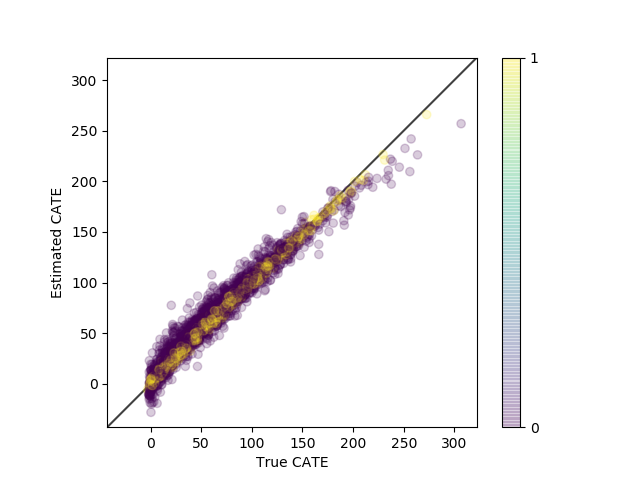
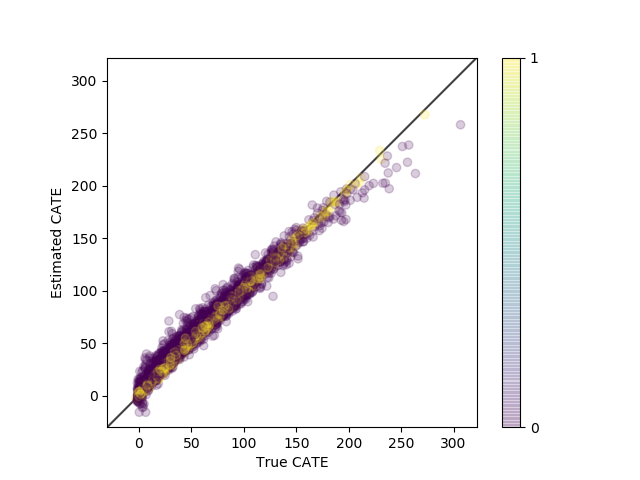
updated using cv

diff --git a/Experminents/pymalts.py b/Experminents/pymalts.py
@@ -14,33 +14,30 @@ import sklearn.ensemble as ensemble
 import seaborn as sns
 import matplotlib.pyplot as plt
 import matplotlib.patches as patches
+from sklearn.model_selection import StratifiedKFold
 
 class malts:
-    def __init__(self,outcome,treatment,data,discrete=[],C=1,gamma=1,epsilon=600,k=10):
+    def __init__(self,outcome,treatment,data,discrete=[],C=1,k=10):
         np.random.seed(0)
         self.C = C #coefficient to regularozation term
-        self.gamma = gamma
         self.k = k
-        self.epsilon = epsilon #lambda x: (1 + np.exp( - self.epsilon) )/(1+np.exp( self.gamma * (x - self.epsilon) ) )
         self.n, self.p = data.shape
-        self.p = self.p - 2#shape of the data
+        self.p = self.p - 2 #shape of the data
         self.outcome = outcome
         self.treatment = treatment
         self.discrete = discrete
         self.continuous = list(set(data.columns).difference(set([outcome]+[treatment]+discrete)))
-#        Mc = np.ones((len(self.continuous),)) #initializing the stretch vector 
-#        Md = np.ones((len(self.discrete),)) #initializing the stretch vector 
         #splitting the data into control and treated units
         self.df_T = data.loc[data[treatment]==1]
         self.df_C = data.loc[data[treatment]==0]
         #extracting relevant covariates (discrete,continuous) 
         #and outcome. Converting to numpy array.
-        self.Xc_T = self.df_T[self.continuous].to_numpy(copy=True)
-        self.Xc_C = self.df_C[self.continuous].to_numpy(copy=True)
-        self.Xd_T = self.df_T[self.discrete].to_numpy(copy=True)
-        self.Xd_C = self.df_C[self.discrete].to_numpy(copy=True)
-        self.Y_T = self.df_T[self.outcome].to_numpy(copy=True)
-        self.Y_C = self.df_C[self.outcome].to_numpy(copy=True)
+        self.Xc_T = self.df_T[self.continuous].to_numpy()
+        self.Xc_C = self.df_C[self.continuous].to_numpy()
+        self.Xd_T = self.df_T[self.discrete].to_numpy()
+        self.Xd_C = self.df_C[self.discrete].to_numpy()
+        self.Y_T = self.df_T[self.outcome].to_numpy()
+        self.Y_C = self.df_C[self.outcome].to_numpy()
         self.del2_Y_T = ((np.ones((len(self.Y_T),len(self.Y_T)))*self.Y_T).T - (np.ones((len(self.Y_T),len(self.Y_T)))*self.Y_T))**2
         self.del2_Y_C = ((np.ones((len(self.Y_C),len(self.Y_C)))*self.Y_C).T - (np.ones((len(self.Y_C),len(self.Y_C)))*self.Y_C))**2
         
@@ -106,7 +103,7 @@ class malts:
     def fit(self,method='COBYLA'):
         np.random.seed(0)
         M_init = np.ones((self.p,))
-        res = opt.minimize( self.objective, x0=M_init, method=method )
+        res = opt.minimize( self.objective, x0=M_init,method=method )
         self.M = res.x
         self.Mc = self.M[:len(self.continuous)]
         self.Md = self.M[len(self.continuous):]
@@ -228,7 +225,22 @@ class malts:
         
             
         
-        
-        
+class malts_mf:
+    def __init__(self,outcome,treatment,data,discrete=[],C=1,k=10,n_splits=5):
+        skf = StratifiedKFold(n_splits=n_splits)
+        gen_skf = skf.split(data,data[treatment])
+        self.M_opt_list = []
+        self.MG_list = []
+        self.CATE_list = []
+        for est_idx, train_idx in gen_skf:
+            df_train = data.iloc[train_idx]
+            df_est = data.iloc[est_idx]
+            m = malts(outcome,treatment,data=df_train, discrete=discrete, C=C,k=k)
+            m.fit()
+            self.M_opt_list.append(m.M)
+            mg = m.get_matched_groups(df_est,50)
+            self.MG_list.append(mg)
+            self.CATE_list.append(m.CATE(mg))
+            
         
         

diff --git a/pymalts.py b/pymalts.py
@@ -16,12 +16,10 @@ import matplotlib.pyplot as plt
 import matplotlib.patches as patches
 
 class malts:
-    def __init__(self,outcome,treatment,data,discrete=[],C=1,gamma=1,epsilon=600,k=10):
+    def __init__(self,outcome,treatment,data,discrete=[],C=1,k=10):
         np.random.seed(0)
         self.C = C #coefficient to regularozation term
-        self.gamma = gamma
         self.k = k
-        self.epsilon = epsilon #lambda x: (1 + np.exp( - self.epsilon) )/(1+np.exp( self.gamma * (x - self.epsilon) ) )
         self.n, self.p = data.shape
         self.p = self.p - 2#shape of the data
         self.outcome = outcome

diff --git a/Experminents/experiment_endogenous_continuous.py b/Experminents/experiment_endogenous_continuous.py
@@ -35,7 +35,9 @@ t_true = df_true_est['TE'].to_numpy()
 ate_true = np.mean(t_true)
 #del Xtest,Ytest,Ttest,df,dense_bs, treatment_eff_coef
 
+m = pymalts.malts_mf( 'Y', 'T',data = df_est )
 
+'''
 m = pymalts.malts('Y','T',data=df_train, discrete=[], C=5,k=10)
 res = m.fit()
 print(res.x)
@@ -233,4 +235,4 @@ plt.tight_layout()
 fig.savefig('Figures/violin_malts.png')
 
 err.to_csv('Logs/CATE_Est_Error_File.csv')
-
+'''
